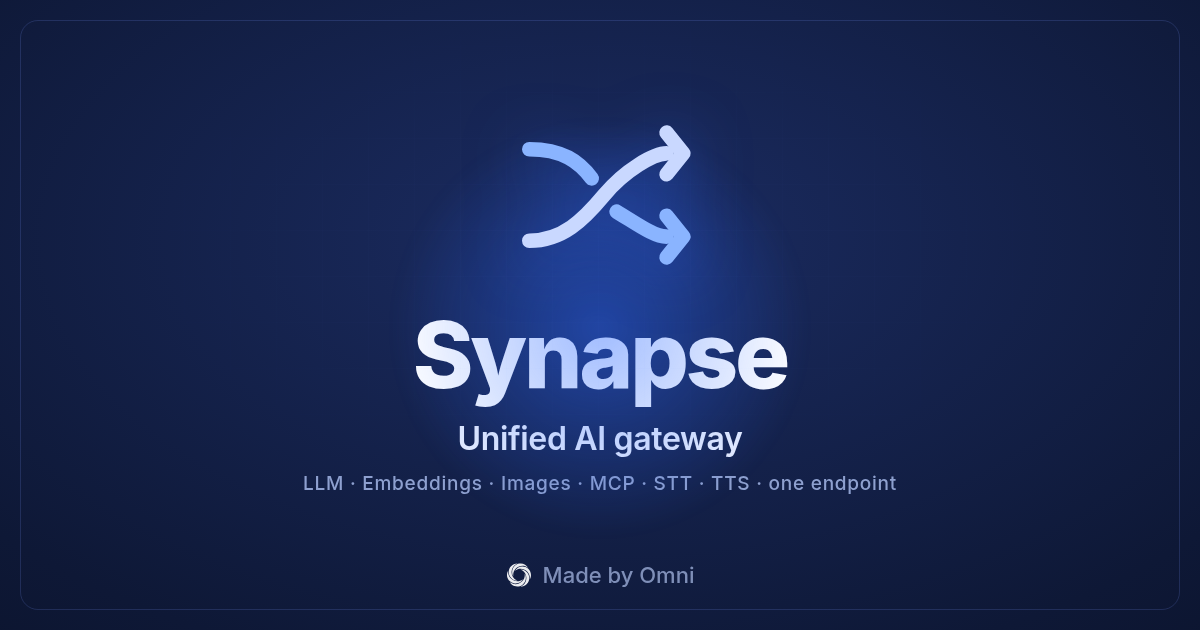
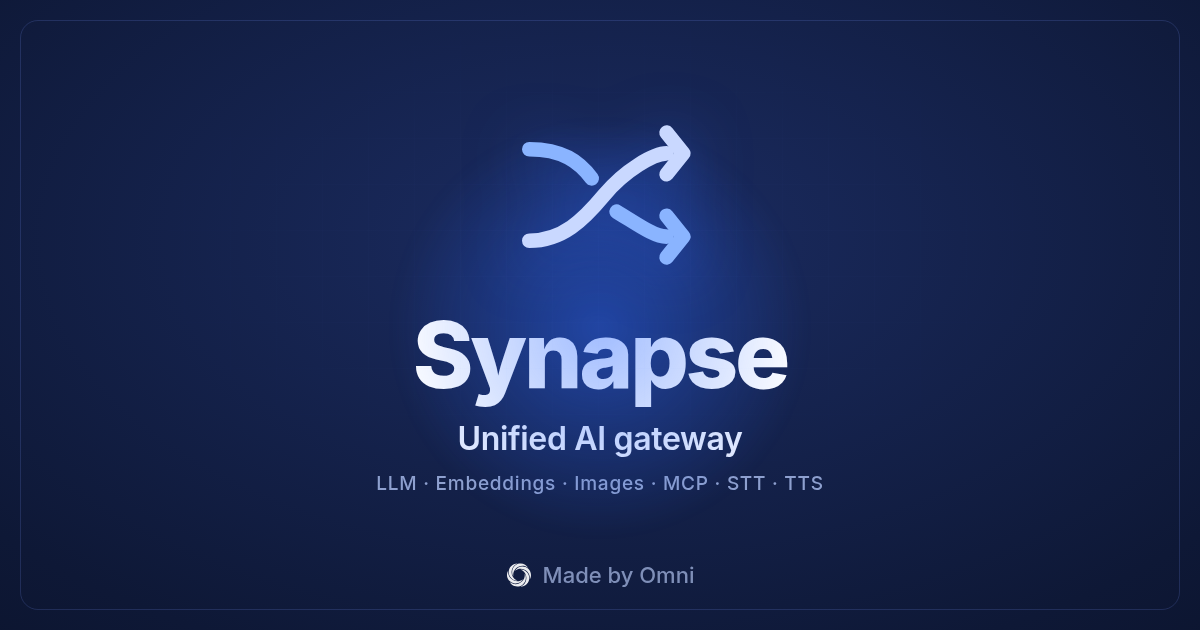
fix(og): drop redundant "one endpoint" from OG modality line (#73)
"one endpoint" is redundant with "Unified". Modality line is now
LLM · Embeddings · Images · MCP · STT · TTS; re-rendered og.png to match.

Changed region(s): [[0.2467, 0.754, 0.74, 0.7841]]

diff --git a/scripts/og/synapse-og.html b/scripts/og/synapse-og.html
@@ -72,7 +72,7 @@
     </div>
     <div class="word">Synapse</div>
     <div class="sub">Unified AI gateway</div>
-    <div class="tag">LLM · Embeddings · Images · MCP · STT · TTS · one endpoint</div>
+    <div class="tag">LLM · Embeddings · Images · MCP · STT · TTS</div>
     <div class="credit"><span class="omni"><svg xmlns="http://www.w3.org/2000/svg" viewBox="0 0 400 400" role="img" aria-label="Omni">
   <path fill="#fff" d="m305.55,251.06c-2.25,39.89-22.63,78.45-54.97,102.2-.02,0-.03.02-.05.03-35.35,24.87-81.6,30.43-121.78,16.38-.35-.12-.7-.25-1.04-.37-26.04-9.8-49.08-27.59-64.36-51.03-.35-.54-.7-1.07-1.03-1.61-.36-.56-.7-1.12-1.04-1.68-.84-1.36-1.63-2.74-2.4-4.14-.38-.69-.78-1.4-1.15-2.11,99.71,81.94,249.46-2.53,229.47-130.45,14.13,22.6,19.75,47.95,18.34,72.79Z"/>
   <path fill="#fff" d="m350.16,291.36c-13.92,38.42-46.39,68.99-85.59,80.61-13.5,4.1-27.59,5.99-41.62,5.63,120.83-45.38,122.54-217.31,1.77-263.96,90.07-3.14,158.73,93.67,125.44,177.72Z"/>
